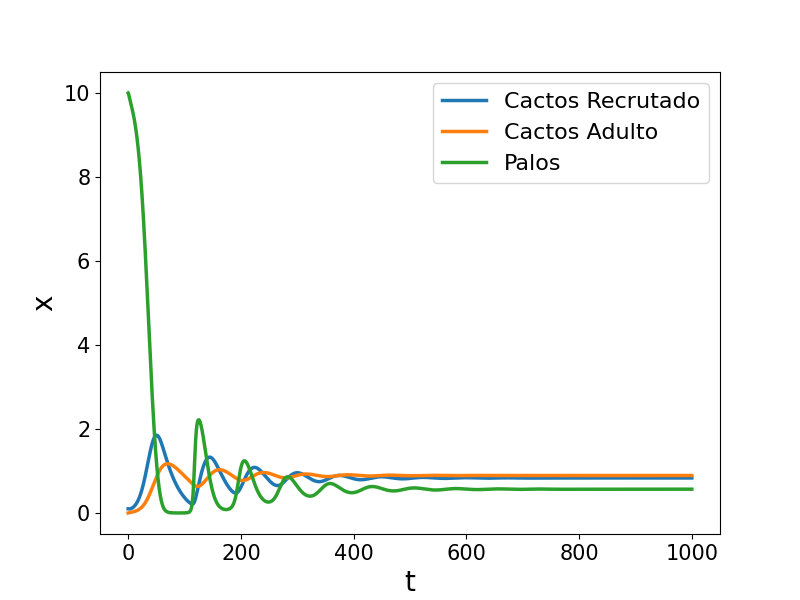
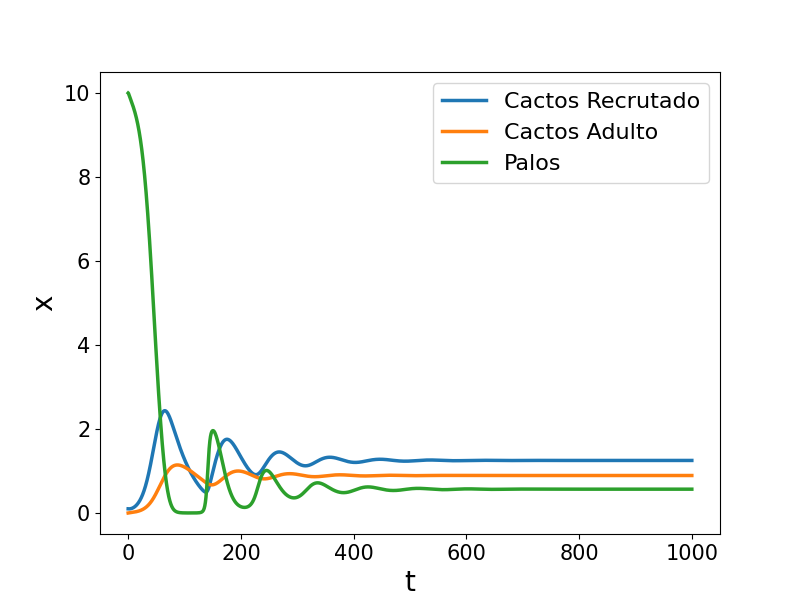
cactos recrutados sempre maiores

Changed region(s): [[0.1562, 0.15, 0.875, 0.87]]

diff --git a/modelo_cactos_palos_full_3.py b/modelo_cactos_palos_full_3.py
@@ -6,7 +6,7 @@ from scipy.integrate import odeint
 taxa_associacao = 2 #c
 r_cacto_adulto = 0.006 #r1
 taxa_facilitacao = 5 #f
-taxa_envelhecimento = 0.03 #alpha (escala de 10^-2)
+taxa_envelhecimento = 0.02 #alpha (escala de 10^-2)
 k_cacto_adulto = 0.009 #k1 )(inversamente proporcional)
 morte_cacto_adulto = 0.02  #d
 r_arbusto = 3 #r2
